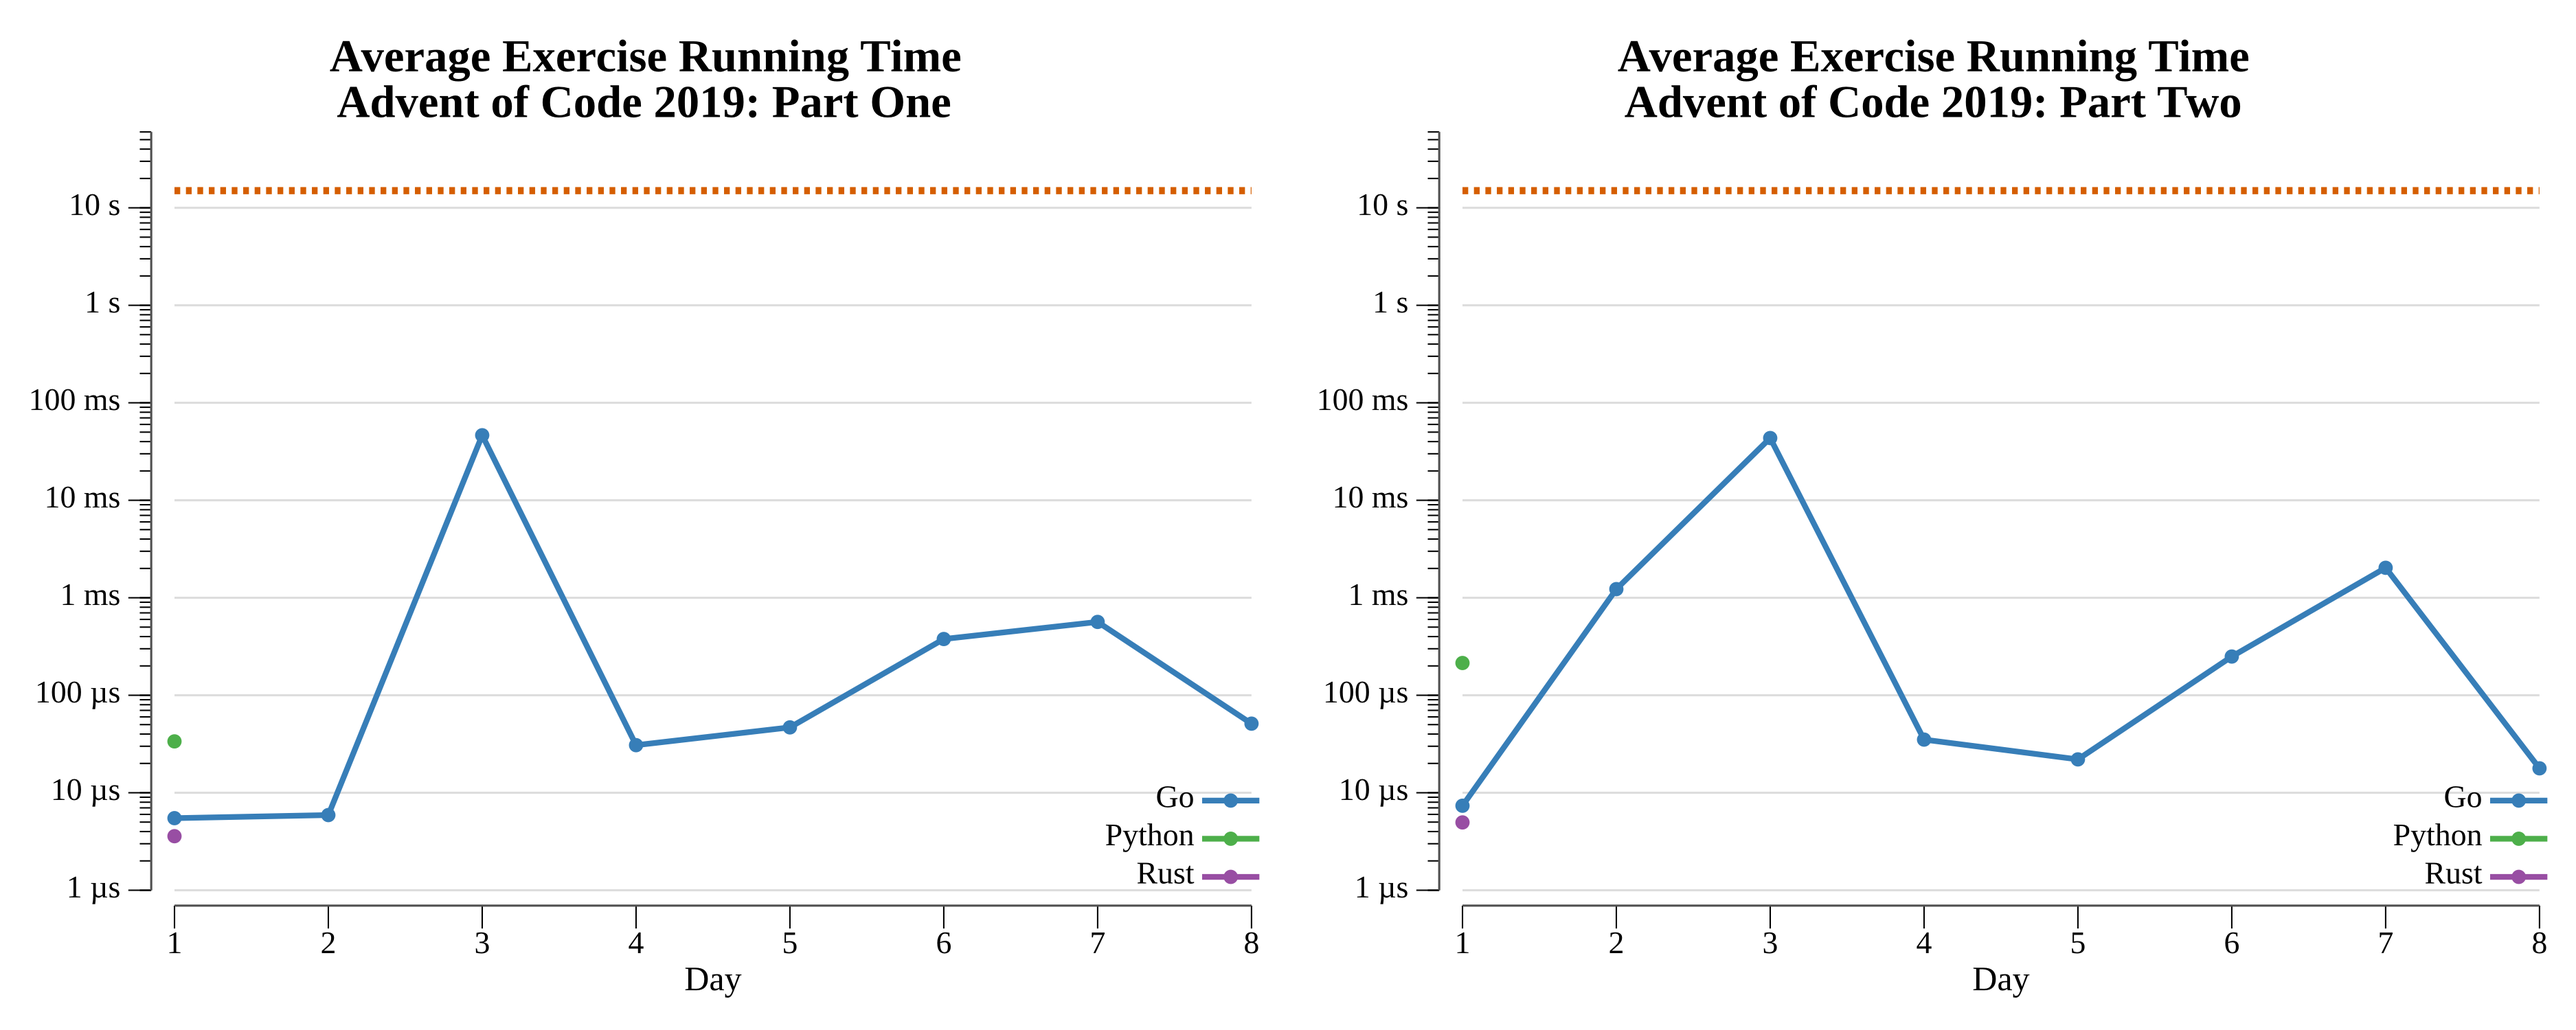
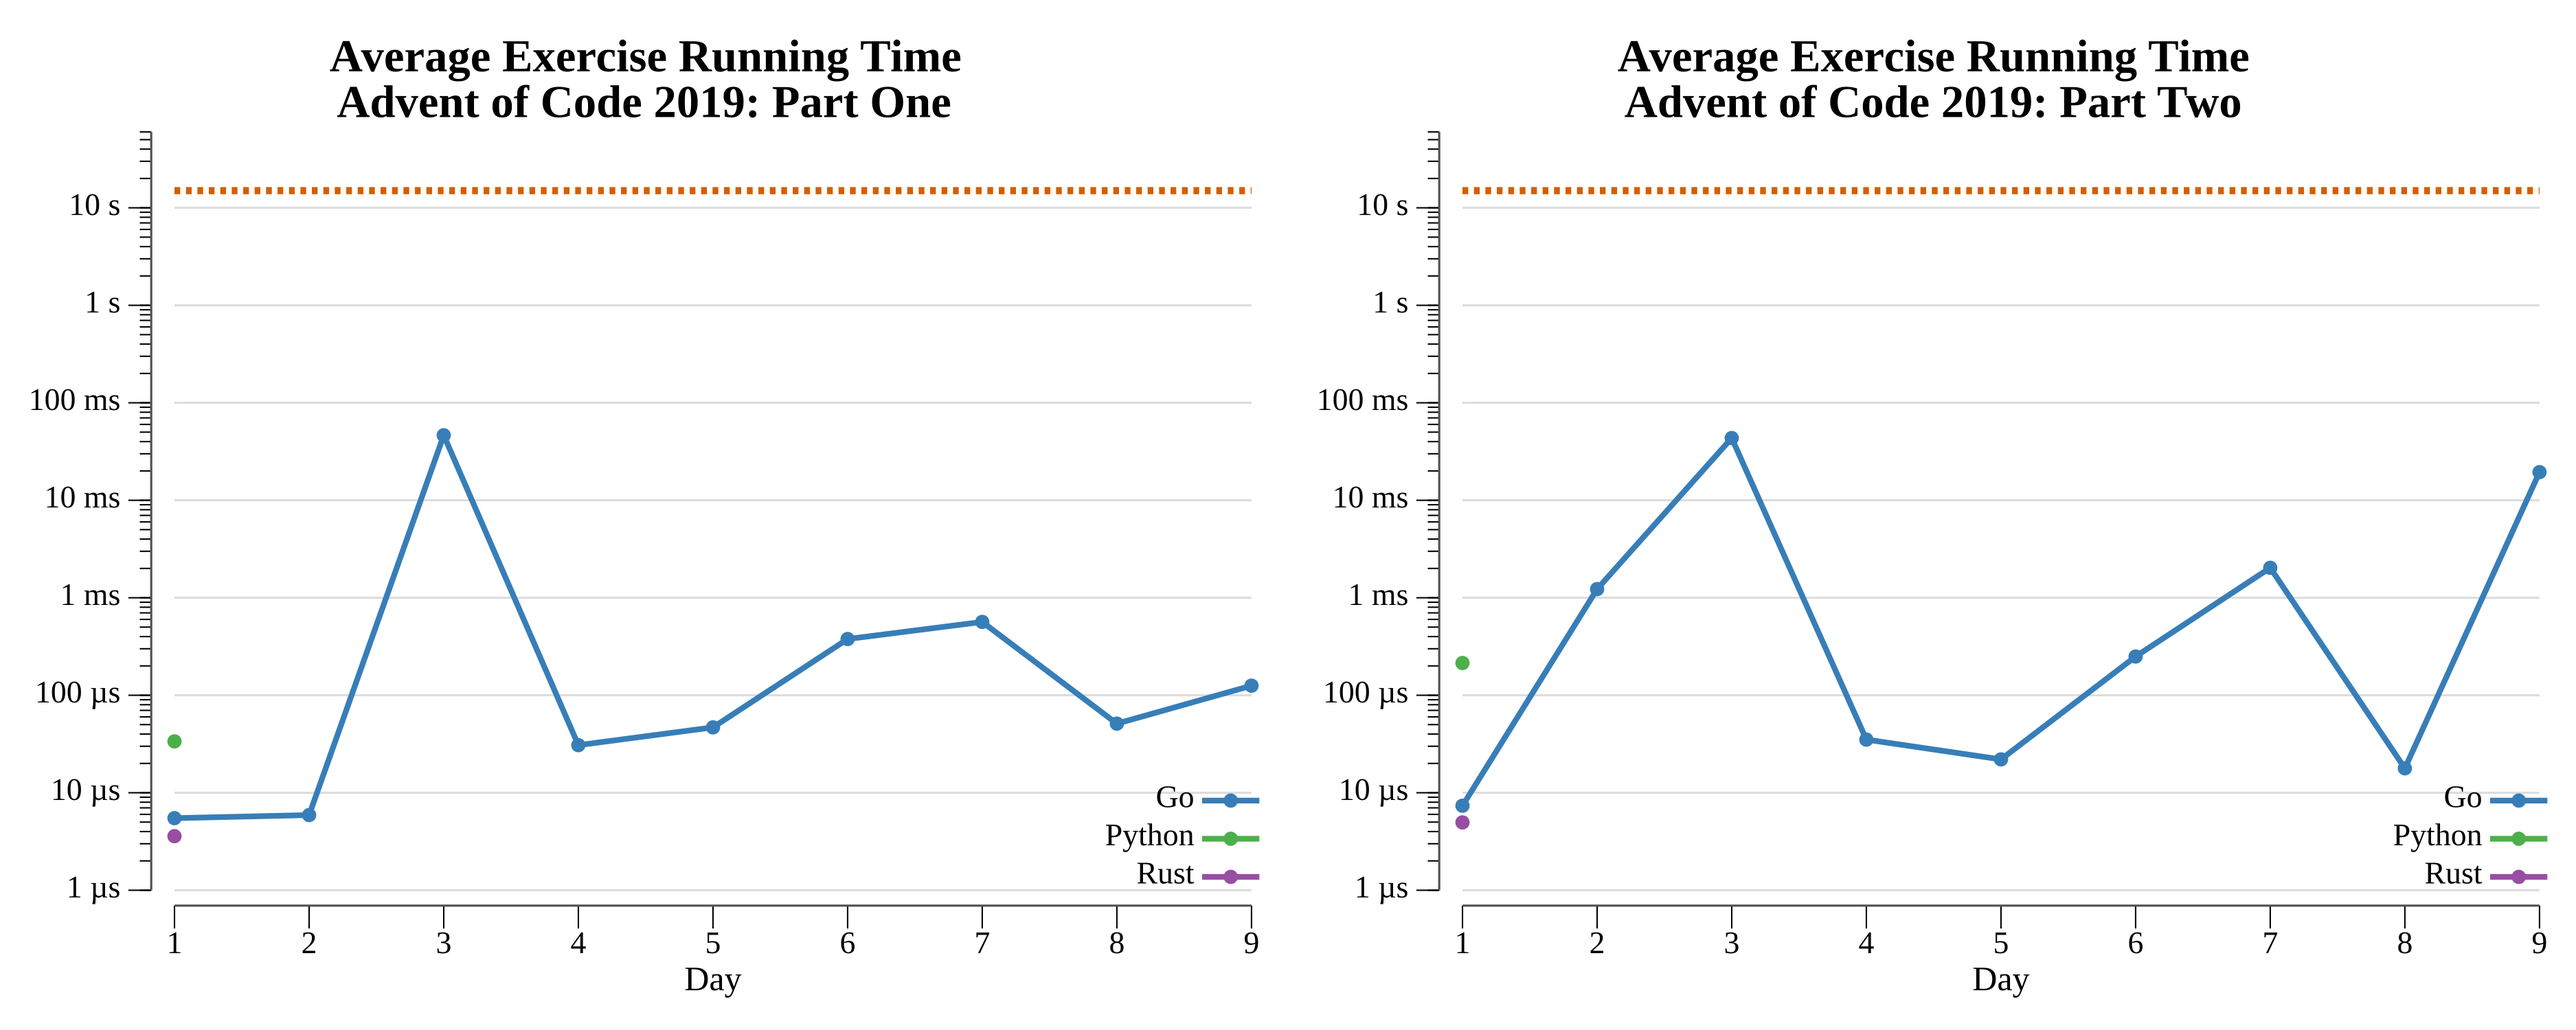
solve 2019 day 9

diff --git a/exercises/2019/09-sensorBoost/go/exercise.go b/exercises/2019/09-sensorBoost/go/exercise.go
@@ -1,0 +1,143 @@
+package exercises
+
+import (
+	"errors"
+	"strconv"
+	"strings"
+
+	"github.com/asphaltbuffet/advent-of-code/internal/common"
+)
+
+var errNoOutput = errors.New("program produced no output")
+
+// Exercise for Advent of Code 2019 day 9.
+type Exercise struct {
+	common.BaseExercise
+}
+
+// mem is a map-backed unbounded memory for Intcode.
+type mem map[int]int
+
+func (m mem) get(addr int) int  { return m[addr] }
+func (m mem) set(addr, val int) { m[addr] = val }
+
+// parseProgram parses a comma-separated Intcode program into a mem map.
+func parseProgram(input string) mem {
+	m := make(mem)
+	for i, s := range strings.Split(strings.TrimSpace(input), ",") {
+		v, _ := strconv.Atoi(s)
+		m[i] = v
+	}
+	return m
+}
+
+// runIntcode runs the Intcode program in m with the given inputs and returns all outputs.
+//
+//nolint:gocognit,funlen // Intcode VM opcode dispatch is inherently complex
+func runIntcode(m mem, inputs []int) []int {
+	ip := 0
+	relBase := 0
+	inputIdx := 0
+	var outputs []int
+
+	param := func(offset, mode int) int {
+		raw := m.get(ip + offset)
+		switch mode {
+		case 0: // position
+			return m.get(raw)
+		case 1: // immediate
+			return raw
+		case 2: // relative
+			return m.get(relBase + raw)
+		}
+		panic("unknown mode")
+	}
+
+	dest := func(offset, mode int) int {
+		raw := m.get(ip + offset)
+		switch mode {
+		case 0:
+			return raw
+		case 2:
+			return relBase + raw
+		}
+		panic("unknown dest mode")
+	}
+
+	for {
+		instr := m.get(ip)
+		op := instr % 100
+		m1 := (instr / 100) % 10
+		m2 := (instr / 1000) % 10
+		m3 := (instr / 10000) % 10
+
+		switch op {
+		case 1: // add
+			m.set(dest(3, m3), param(1, m1)+param(2, m2))
+			ip += 4
+		case 2: // multiply
+			m.set(dest(3, m3), param(1, m1)*param(2, m2))
+			ip += 4
+		case 3: // input
+			m.set(dest(1, m1), inputs[inputIdx])
+			inputIdx++
+			ip += 2
+		case 4: // output
+			outputs = append(outputs, param(1, m1))
+			ip += 2
+		case 5: // jump-if-true
+			if param(1, m1) != 0 {
+				ip = param(2, m2)
+			} else {
+				ip += 3
+			}
+		case 6: // jump-if-false
+			if param(1, m1) == 0 {
+				ip = param(2, m2)
+			} else {
+				ip += 3
+			}
+		case 7: // less than
+			v := 0
+			if param(1, m1) < param(2, m2) {
+				v = 1
+			}
+			m.set(dest(3, m3), v)
+			ip += 4
+		case 8: // equals
+			v := 0
+			if param(1, m1) == param(2, m2) {
+				v = 1
+			}
+			m.set(dest(3, m3), v)
+			ip += 4
+		case 9: // adjust relative base
+			relBase += param(1, m1)
+			ip += 2
+		case 99: // halt
+			return outputs
+		}
+	}
+}
+
+// One returns the answer to the first part of the exercise.
+// Runs the Intcode program with input 1 and returns the single BOOST keycode output.
+func (e Exercise) One(instr string) (any, error) {
+	m := parseProgram(instr)
+	outputs := runIntcode(m, []int{1})
+	if len(outputs) == 0 {
+		return nil, errNoOutput
+	}
+	return outputs[len(outputs)-1], nil
+}
+
+// Two returns the answer to the second part of the exercise.
+// Runs the Intcode program with input 2 and returns the distress signal coordinates.
+func (e Exercise) Two(instr string) (any, error) {
+	m := parseProgram(instr)
+	outputs := runIntcode(m, []int{2})
+	if len(outputs) == 0 {
+		return nil, errNoOutput
+	}
+	return outputs[len(outputs)-1], nil
+}

diff --git a/exercises/2019/README.md b/exercises/2019/README.md
@@ -14,7 +14,7 @@
 | [Day 6: Universal Orbit Map][rm_6]                |  ★ ★  | [Go][go_6] |
 | [Day 7: Amplification Circuit][rm_7]              |  ★ ★  | [Go][go_7] |
 | [Day 8: Space Image Format][rm_8]                 |  ★ ★  | [Go][go_8] |
-| 9                                                 |  ☆ ☆  |                            |
+| [Day 9: Sensor Boost][rm_9]                       |  ★ ★  | [Go][go_9] |
 | 10                                                |  ☆ ☆  |                            |
 | 11                                                |  ☆ ☆  |                            |
 | 12                                                |  ☆ ☆  |                            |
@@ -70,3 +70,6 @@ Day       Time    Rank  Score       Time    Rank  Score
 
 [rm_8]: 08-spaceImageFormat/README.md
 [go_8]: 08-spaceImageFormat/go
+
+[rm_9]: 09-sensorBoost/README.md
+[go_9]: 09-sensorBoost/go

diff --git a/exercises/2019/09-sensorBoost/README.md b/exercises/2019/09-sensorBoost/README.md
@@ -1,0 +1,29 @@
+# [Day 9: Sensor Boost](https://adventofcode.com/2019/day/9)
+
+<!-- These are helper text to make formatting the yearly readme consistent and easier...
+
+[Day 9: Sensor Boost][rm9]
+[Go][go9]
+[Python][py9]
+
+[rm9]: 09-sensorBoost/README.md
+[go9]: 09-sensorBoost/go
+[py9]: 09-sensorBoost/py
+
+-->
+
+## Notes
+
+Day 9 completes the Intcode spec: adds relative mode (parameter mode 2, using a `relativeBase` register), opcode 9 (adjusts `relativeBase`), and unbounded memory (implemented via `map[int]int`). Part One runs with input=1 (diagnostic mode), Part Two with input=2 (sensor boost mode); both return the single output value.
+
+## Go
+
+```text
+Solving (Go)…
+1.0:  PASS             0.118ms
+2.0:  PASS            20.276ms
+```
+
+## Run Times
+
+![run-times](run-times.png)
